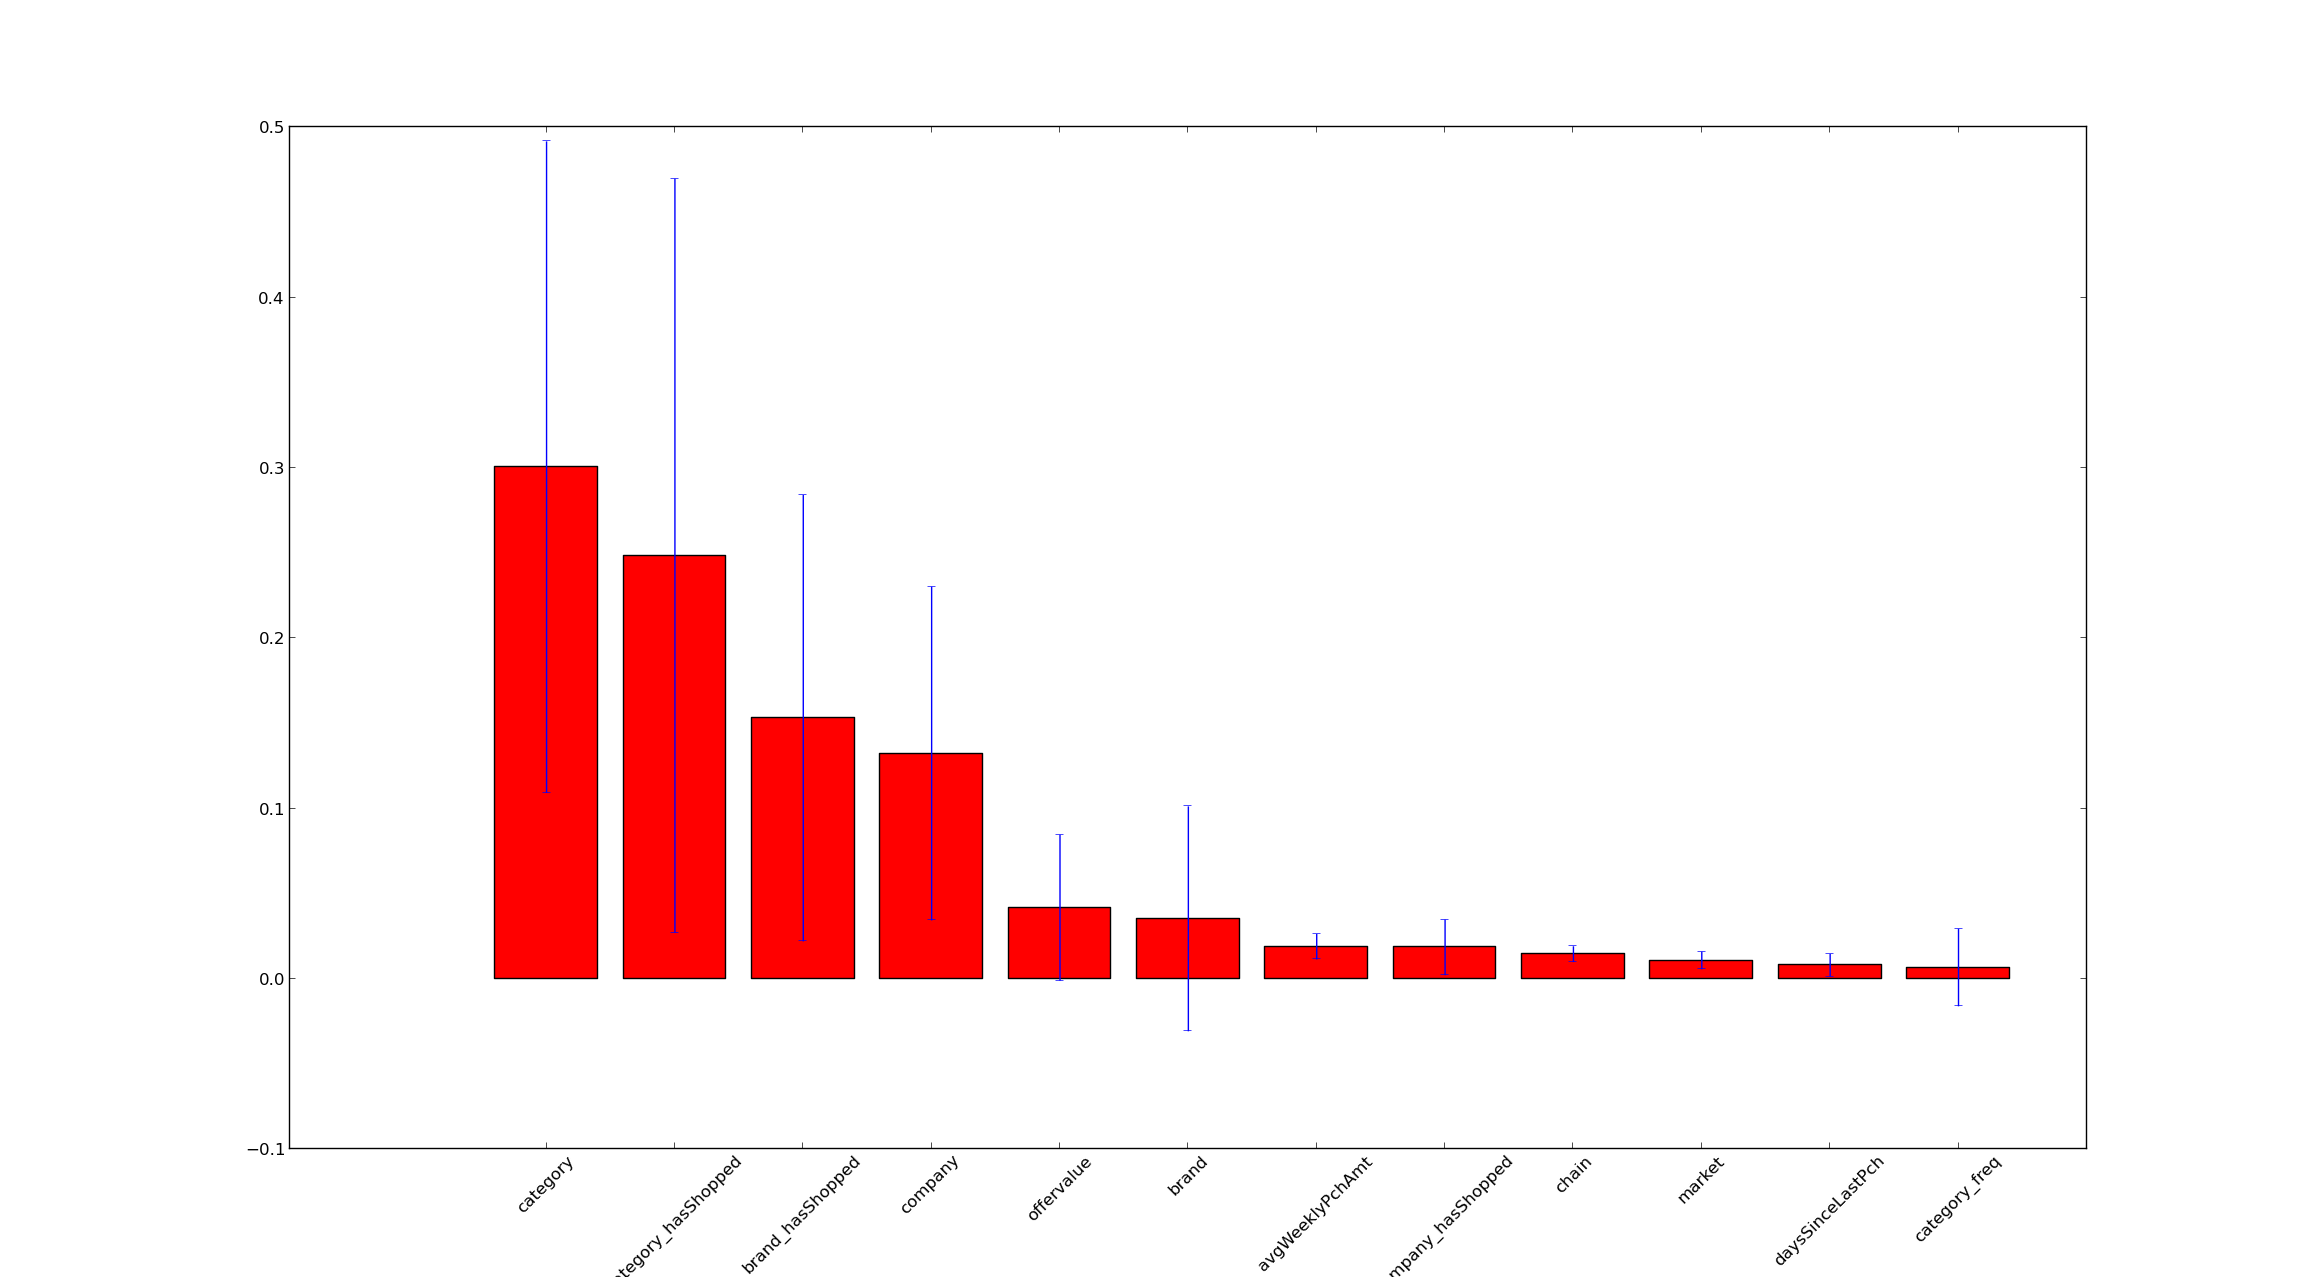
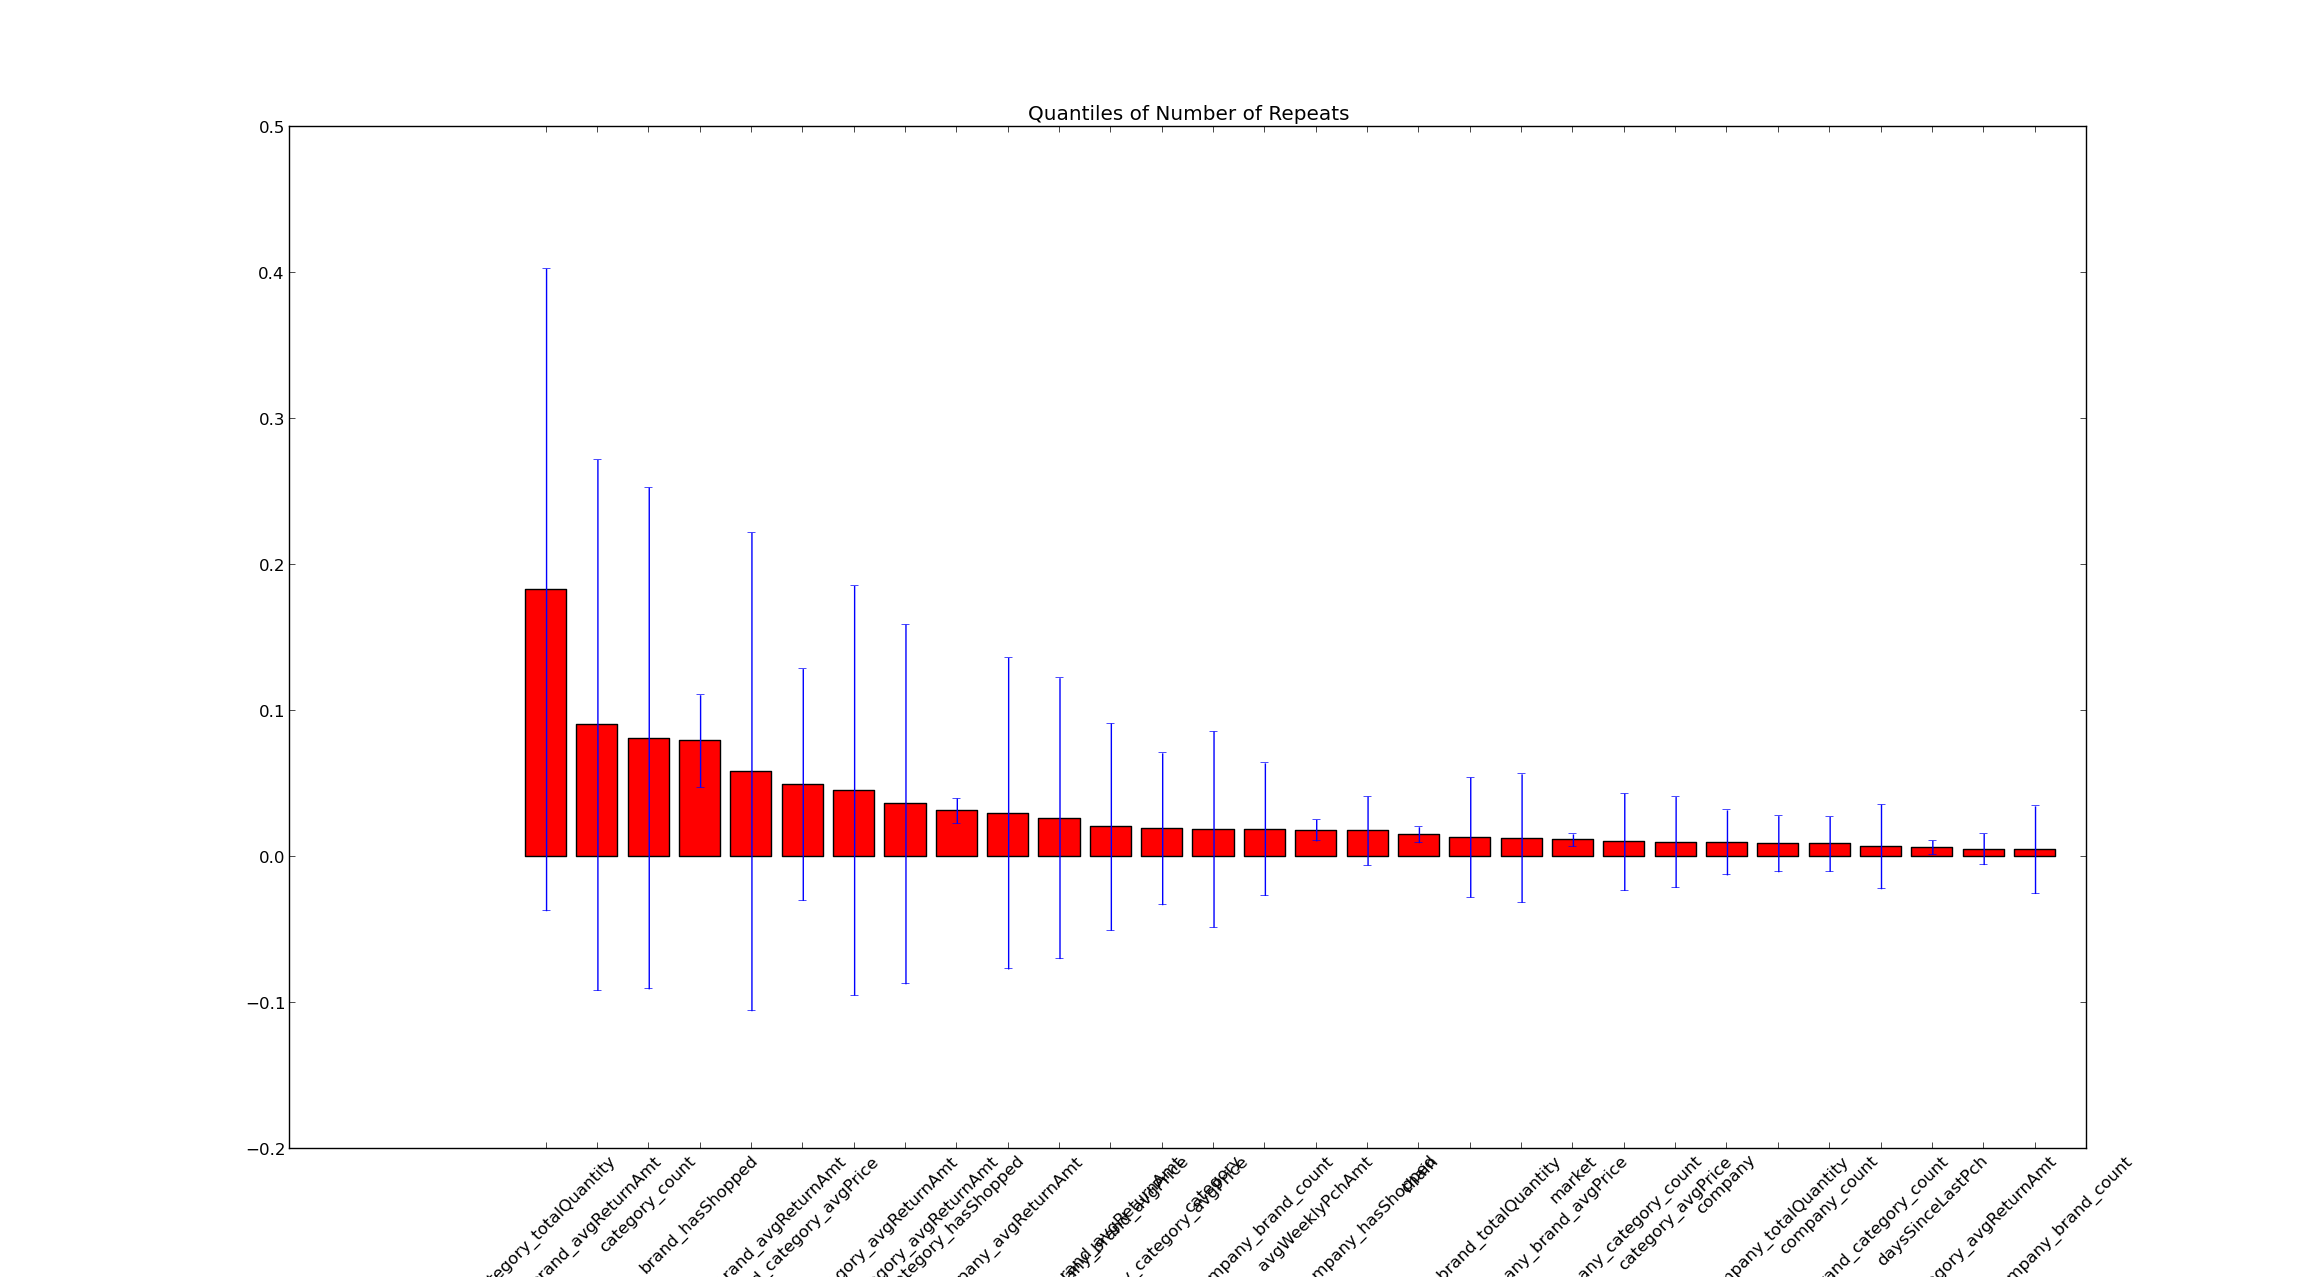
using all 61 fields (30+ new offers fields) improved the kaggle auc score by 0.028 ! Surprisingly, this improvement is not reflected in the training data cv. goes to show that the training data is not representative of the test data.

diff --git a/ValuedShoppers/main.py b/ValuedShoppers/main.py
@@ -11,6 +11,7 @@ from globalVars import *
 from sklearn.ensemble import GradientBoostingClassifier, GradientBoostingRegressor
 from sklearn.linear_model import LogisticRegression
 from sklearn.metrics import roc_auc_score
+from sklearn.preprocessing import Imputer
 
 
 
@@ -64,6 +65,7 @@ def cv_scores(clf, X, Y_train, Y_test, numCvs=5, n_jobs=16):
     @param Y_test: Y_repeater
     """
 
+    X = Imputer().fit_transform(X)
     return cvScores(clf, X, Y_train, scoreFuncsToUse='auc_score', numCVs=5, n_jobs=n_jobs, test_size=0.25, y_test=Y_test)
 
 
@@ -89,8 +91,12 @@ def classify(X, y, lossString, fit=True):
     @return classifier
     """
 
+    print 'Training data:'
+    print_missing_values_info(X)
+    X = Imputer().fit_transform(X)
+
     # clf = LogisticRegression()
-    clf = GradientBoostingRegressor(learning_rate=0.001, loss=lossString, n_estimators=100, subsample=0.9)
+    clf = GradientBoostingRegressor(learning_rate=0.01, loss=lossString, n_estimators=100, subsample=0.9)
 
     if fit:
         clf.fit(X, y)
@@ -104,7 +110,9 @@ def _predict(ids, X, clf, outputFpath):
     @return predictions
     """
 
+    print 'Prediction data:'
     print_missing_values_info(X)
+    X = Imputer().fit_transform(X)
 
     # res = pandas.DataFrame({'id': ids, 'repeatProbability': clf.predict_proba(X)[:, 1]})
     res = pandas.DataFrame({'id': ids, 'repeatProbability': clf.predict(X)})
@@ -121,26 +129,36 @@ def predict(X, clf, outputFpath):
     return _predict(ids, np.array(X), clf, outputFpath)
 
 
-def _plot_feature_importances(X, Y, labels, numTopFeatures, numEstimators = 50):
+def _plot_feature_importances(X, Y, labels, numTopFeatures, numEstimators = 50, title = None):
+    """
+    @param X: np.array
+    """
+
+    # impute missing data
+    imp = Imputer()
+    X = imp.fit_transform(X)
 
     rf = RandomForester(num_features = X.shape[1], n_estimators = numEstimators)
     rf.fit(X, Y)
 
-    topFeatureInd, topFeatureLabels, topFeatureImportances = rf.top_indices(labels=labels)
+    topFeatureInd, topFeatureLabels, topFeatureImportances = rf.top_indices(labels=labels, num_features=numTopFeatures)
 
     print 'Top features:'
     pprint(np.transpose([topFeatureLabels, topFeatureImportances]))
 
-    rf.plot(num_features=numTopFeatures, labels=labels)
+    rf.plot(num_features=numTopFeatures, labels=labels, title=title)
 
     return topFeatureInd, topFeatureLabels, topFeatureImportances
 
 
-def plot_feature_importances(X_train, Y_repeater, Y_numRepeats, Y_quantiles):
+def plot_feature_importances(X_train, Y_repeater, Y_numRepeats, Y_quantiles, num_features):
+    """
+    @param num_features: number of features for [repeater, numrepeats, quantiles]
+    """
 
-    fields_repeater = _plot_feature_importances(np.array(X_train), Y_repeater, labels=X_train.columns, numTopFeatures=X_train.shape[1]/2)[1]
-    fields_numRepeats = _plot_feature_importances(np.array(X_train), Y_numRepeats, labels=X_train.columns, numTopFeatures=X_train.shape[1]/2)[1]
-    fields_quantiles = _plot_feature_importances(np.array(X_train), Y_quantiles, labels=X_train.columns, numTopFeatures=X_train.shape[1]/2)[1]
+    fields_repeater = _plot_feature_importances(np.array(X_train), Y_repeater, labels=X_train.columns, numTopFeatures=num_features[0], title='Repeater')[1]
+    fields_numRepeats = _plot_feature_importances(np.array(X_train), Y_numRepeats, labels=X_train.columns, numTopFeatures=num_features[1], title='Number of Repeats')[1]
+    fields_quantiles = _plot_feature_importances(np.array(X_train), Y_quantiles, labels=X_train.columns, numTopFeatures=num_features[2], title='Quantiles of Number of Repeats')[1]
 
     return fields_repeater, fields_numRepeats, fields_quantiles
 
@@ -173,14 +191,15 @@ if __name__ == '__main__':
 
     # ---- read data
     X_train, Y_repeater, Y_numRepeats, Y_quantiles = join_3_files(join(DATA_DIR, "trainHistory_wDatesQuantiles.csv"),
-                                                                  join(DATA_DIR, "offers.csv"),
+                                                                  join(DATA_DIR, "offers_amended.csv"),
                                                                   join(DATA_DIR, "transactions_train_compressed.csv"),
                                                                   True, X_FIELDS.keys())
 
+
     # ---- assess feature importances
-    # fields_repeater, fields_numRepeats, fields_quantiles = plot_feature_importances(X_train, Y_repeater, Y_numRepeats, Y_quantiles)
-    # fieldsToUse = list(set(fields_repeater[:5] + fields_numRepeats[:5] + fields_quantiles[:8]))
-    fieldsToUse = FIELDS_17
+    # fields_repeater, fields_numRepeats, fields_quantiles = plot_feature_importances(X_train, Y_repeater, Y_numRepeats, Y_quantiles, [0.85]*3)
+    # fieldsToUse = list(set(fields_repeater + fields_numRepeats + fields_quantiles))    # fieldsToUse = FIELDS_17
+    fieldsToUse = FIELDS_21
     print 'fields to use:', len(fieldsToUse), fieldsToUse
 
     # ---- classify and predict
@@ -189,17 +208,15 @@ if __name__ == '__main__':
     y_train = np.array(Y_quantiles)
     # y_train = np.array(Y_numRepeats)
     y_val = np.array(Y_repeater)
-    clf = classify(np.array(X_train), y_train, lossString='ls', fit=True)
+    clf = classify(np.array(X_train), y_train, lossString='ls', fit=False)
 
-    # print 'CV scores:', cv_scores(clf, np.array(X_train), y_train, y_val, n_jobs=16, numCvs=16)
+    print 'CV scores:', cv_scores(clf, np.array(X_train), y_train, y_val, n_jobs=16, numCvs=16)
 
-    print '========= predicting'
-    X_test = join_3_files(join(DATA_DIR, "testHistory_wDateFields.csv"),
-                         join(DATA_DIR, "offers.csv"),
-                         join(DATA_DIR, "transactions_test_compressed.csv"),
-                         False, fieldsToUse)[0]
-
-
-    predict(X_test, clf, '/home/jj/code/Kaggle/ValuedShoppers/submissions/17fields_quantiles_gbc_long.csv')
-
-    # compare_test_and_train_data(X_train, X_test)
+    # print '========= predicting'
+    # X_test = join_3_files(join(DATA_DIR, "testHistory_wDateFields.csv"),
+    #                      join(DATA_DIR, "offers_amended.csv"),
+    #                      join(DATA_DIR, "transactions_test_compressed.csv"),
+    #                      False, fieldsToUse)[0]
+    #
+    #
+    # predict(X_test, clf, '/home/jj/code/Kaggle/ValuedShoppers/submissions/17fields_quantiles_gbc_long.csv')

diff --git a/ValuedShoppers/globalVars.py b/ValuedShoppers/globalVars.py
@@ -9,32 +9,72 @@ TRANSACTIONS_FILE_NUM_LINES = 349655789
 
 DATA_DIR = "/home/jj/code/Kaggle/ValuedShoppers/Data/"
 
+NON_X_FIELDS = ['id', 'offer', 'offerdate', 'repeattrips', 'repeater', 'repeatQuantiles']
+
+
 # key: field name; value: if discrete
 X_FIELDS = {'chain': True,
-           'market': True,
-           'dayOfTheWeek': True,
-           'isWeekend': True,
-           'isHoliday': True,
-           'isAWeekBeforeHol': True,
-           'isTwoWeeksBeforeHol': True,
-           'isAWeekAfterHol': True,
-           'isTwoWeeksAfterHol': True,
-           'category': True,
-           'quantity': False,
-           'company': True,
-           'offervalue': False,
-           'brand': True,
-           'chain_freq': False,
-           'category_freq': False,
-           'company_freq': False,
-           'brand_freq': False,
-           'chain_hasShopped': True,
-           'category_hasShopped': True,
-           'company_hasShopped': True,
-           'brand_hasShopped': True,
-           'daysSinceLastPch': False,
-           'avgWeeklyPchAmt': False,
-           'pchAmtWiWeekOfOffer': False}
+            'market': True,
+            'dayOfTheWeek': True,
+            'isWeekend': True,
+            'isHoliday': True,
+            'isAWeekBeforeHol': True,
+            'isTwoWeeksBeforeHol': True,
+            'isAWeekAfterHol': True,
+            'isTwoWeeksAfterHol': True,
+            'category': True,
+            'quantity': False,
+            'company': True,
+            'offervalue': False,
+            'brand': True,
+            'offerPrice': False,
+            'category_count': False,
+            'category_avgReturnAmt': False,
+            'category_totalQuantity': False,
+            'category_returnRate': False,
+            'category_avgPrice': False,
+            'company_count': False,
+            'company_avgReturnAmt': False,
+            'company_totalQuantity': False,
+            'company_returnRate': False,
+            'company_avgPrice': False,
+            'brand_count': False,
+            'brand_avgReturnAmt': False,
+            'brand_totalQuantity': False,
+            'brand_returnRate': False,
+            'brand_avgPrice': False,
+            'brand_category_count': False,
+            'brand_category_avgReturnAmt': False,
+            'brand_category_totalQuantity': False,
+            'brand_category_returnRate': False,
+            'brand_category_avgPrice': False,
+            'company_category_count': False,
+            'company_category_avgReturnAmt': False,
+            'company_category_totalQuantity': False,
+            'company_category_returnRate': False,
+            'company_category_avgPrice': False,
+            'company_brand_count': False,
+            'company_brand_avgReturnAmt': False,
+            'company_brand_totalQuantity': False,
+            'company_brand_returnRate': False,
+            'company_brand_avgPrice': False,
+            'category_company_brand_count': False,
+            'category_company_brand_avgReturnAmt': False,
+            'category_company_brand_totalQuantity': False,
+            'category_company_brand_returnRate': False,
+            'category_company_brand_avgPrice': False,
+            'chain_freq': False,
+            'category_freq': False,
+            'company_freq': False,
+            'brand_freq': False,
+            'chain_hasShopped': True,
+            'category_hasShopped': True,
+            'company_hasShopped': True,
+            'brand_hasShopped': True,
+            'daysSinceLastPch': False,
+            'avgWeeklyPchAmt': False,
+            'pchAmtWiWeekOfOffer': False}
+FIELDS_21 = ['category', 'company_brand_avgReturnAmt', 'pchAmtWiWeekOfOffer', 'chain', 'category_totalQuantity', 'avgWeeklyPchAmt', 'company_avgReturnAmt', 'company_brand_avgPrice', 'company_category_avgPrice', 'category_avgReturnAmt', 'category_hasShopped', 'brand_avgReturnAmt', 'category_count', 'category_company_brand_avgReturnAmt', 'company_category_avgReturnAmt', 'brand_hasShopped', 'offervalue', 'brand_category_avgPrice', 'brand_category_avgReturnAmt', 'category_company_brand_avgPrice', 'company_hasShopped']
 
 FIELDS_17 = ['category', 'pchAmtWiWeekOfOffer', 'dayOfTheWeek', 'chain_freq', 'chain', 'avgWeeklyPchAmt', 'brand', 'daysSinceLastPch', 'category_hasShopped', 'category_freq', 'brand_freq', 'brand_hasShopped', 'offervalue', 'company_freq', 'company', 'market', 'company_hasShopped']
 

diff --git a/utilities.py b/utilities.py
@@ -800,25 +800,40 @@ class RandomForester(BaseEstimator, TransformerMixin):
         """
         returns the top indices
         """
-        n = None    # num of features to output
 
+        n = self.__get_num_ticks(num_features)
         importances = self._forest.feature_importances_
-
-        if num_features == 'auto':
-            n = int(self.num_features if self.num_features > 1 else len(importances)*self.num_features)
-        elif num_features == 'all':
-            n = len(importances)
-        elif isinstance(num_features, int):
-            n = num_features
-        else:
-            raise Exception('Invalid num_features provided:', num_features)
 
         ind = np.argsort(importances)[::-1][:n]
         indLabels = None if labels is None else labels[ind]
 
         return ind, indLabels, importances[ind]
 
-    def plot(self, num_features='auto', labels=None):
+    def __get_num_ticks(self, num_features):
+
+        importances = self._forest.feature_importances_
+
+        if num_features == 'auto':
+            return int(self.num_features if self.num_features > 1 else len(importances) * self.num_features)
+        elif num_features == 'all':
+            return len(importances)
+        elif isinstance(num_features, int):
+            return num_features
+        elif isinstance(num_features, float) and num_features > 0 and num_features < 1:
+            print 'total importance =', np.sum(importances)
+            numTicks = 0
+            totalImp = 0
+            for i in np.sort(importances)[::-1]:
+                totalImp += i
+                numTicks += 1
+                if totalImp >= num_features:
+                    break
+            print 'Using %d features to achieve a total of %f importance.' % (numTicks, totalImp)
+            return numTicks
+        else:
+            raise Exception('Invalid num_features provided:', num_features)
+
+    def plot(self, num_features='auto', labels=None, title=None):
         """
         makes a bar plot of feature importances and corresp. standard deviations
         call only after the "fit" method has been called
@@ -827,18 +842,12 @@ class RandomForester(BaseEstimator, TransformerMixin):
               'auto': same as the class' number of  features
               'all': all features
               a number: specific # features
+              a decimal: however many features it takes to sum up to that importance
         """
 
         importances = self._forest.feature_importances_
 
-        if num_features == 'auto':
-            numTicks = int(self.num_features if self.num_features > 1 else len(importances)*self.num_features)
-        elif num_features== 'all':
-            numTicks = len(importances)
-        elif isinstance(num_features, int):
-            numTicks = num_features
-        else:
-            raise Exception('Invalid num_features provided:', num_features)
+        numTicks = self.__get_num_ticks(num_features)
 
         indices = np.argsort(importances)[::-1][:numTicks]
         std = np.std([tree.feature_importances_ for tree in self._forest.estimators_], axis=0)
@@ -847,6 +856,9 @@ class RandomForester(BaseEstimator, TransformerMixin):
 
         if labels is not None:
             plt.xticks(range(len(indices)), labels[indices], rotation=45)
+
+        if title is not None:
+            plt.title(title)
 
         plt.show()
 

diff --git a/ValuedShoppers/modifyTrainingFiles.py b/ValuedShoppers/modifyTrainingFiles.py
@@ -50,7 +50,7 @@ def add_quantiles_to_training_history(inputFpath):
     print 'read. adding quantiles.'
     data['repeatQuantiles'] = convert_to_ranks(data['repeattrips'])
 
-    data.to_csv(os.path.join(DATA_DIR, "trainHistory_wDatesQuantiles.csv"))
+    data.to_csv(os.path.join(DATA_DIR, "trainHistory_wDatesQuantiles.csv"), index=False)
 
 
 if __name__=='__main__':

diff --git a/ValuedShoppers/amendOffers.py b/ValuedShoppers/amendOffers.py
@@ -161,4 +161,4 @@ write_singleDict_to_offers()
 write_doubleDict_to_offers()
 write_tripleDict_to_offers()
 
-offers.to_csv("/home/jj/code/Kaggle/ValuedShoppers/Data/offers_amended.csv")
+offers.to_csv("/home/jj/code/Kaggle/ValuedShoppers/Data/offers_amended.csv", index=False)
